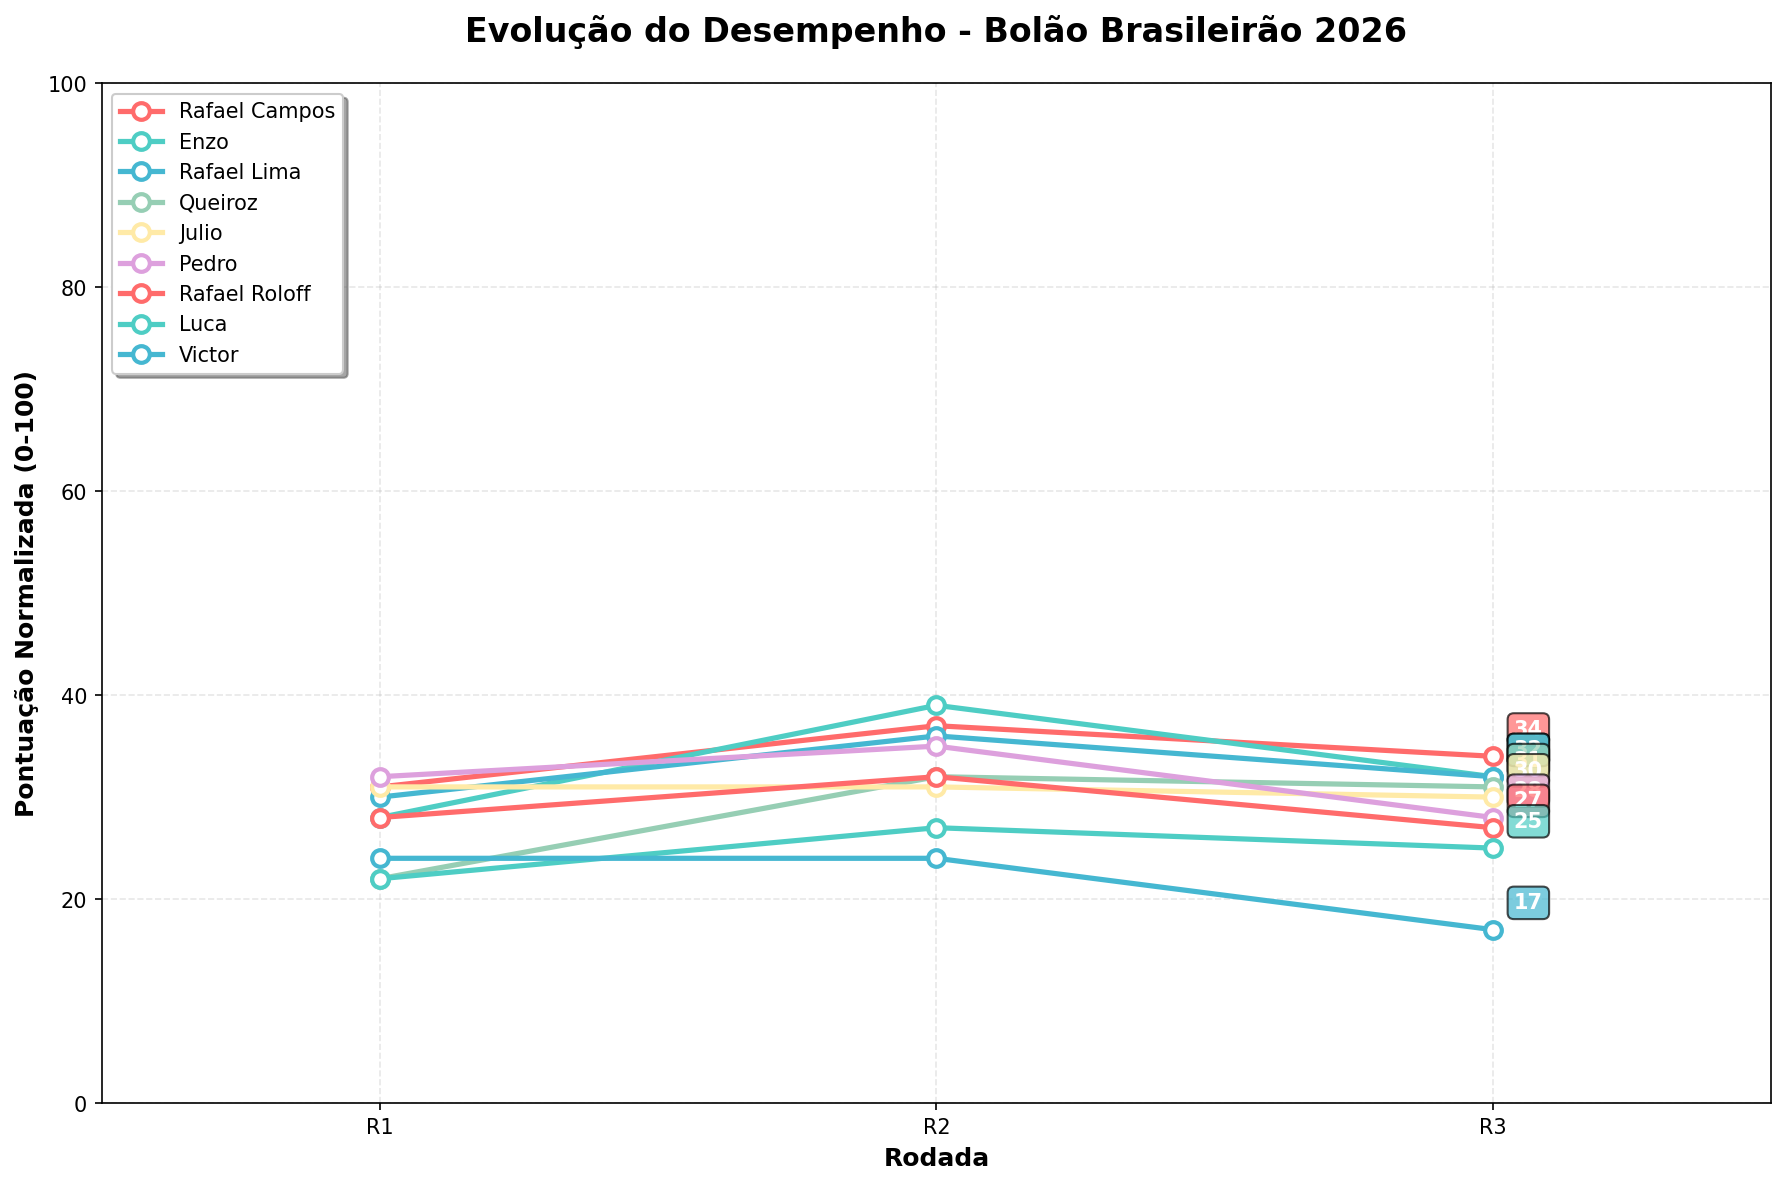
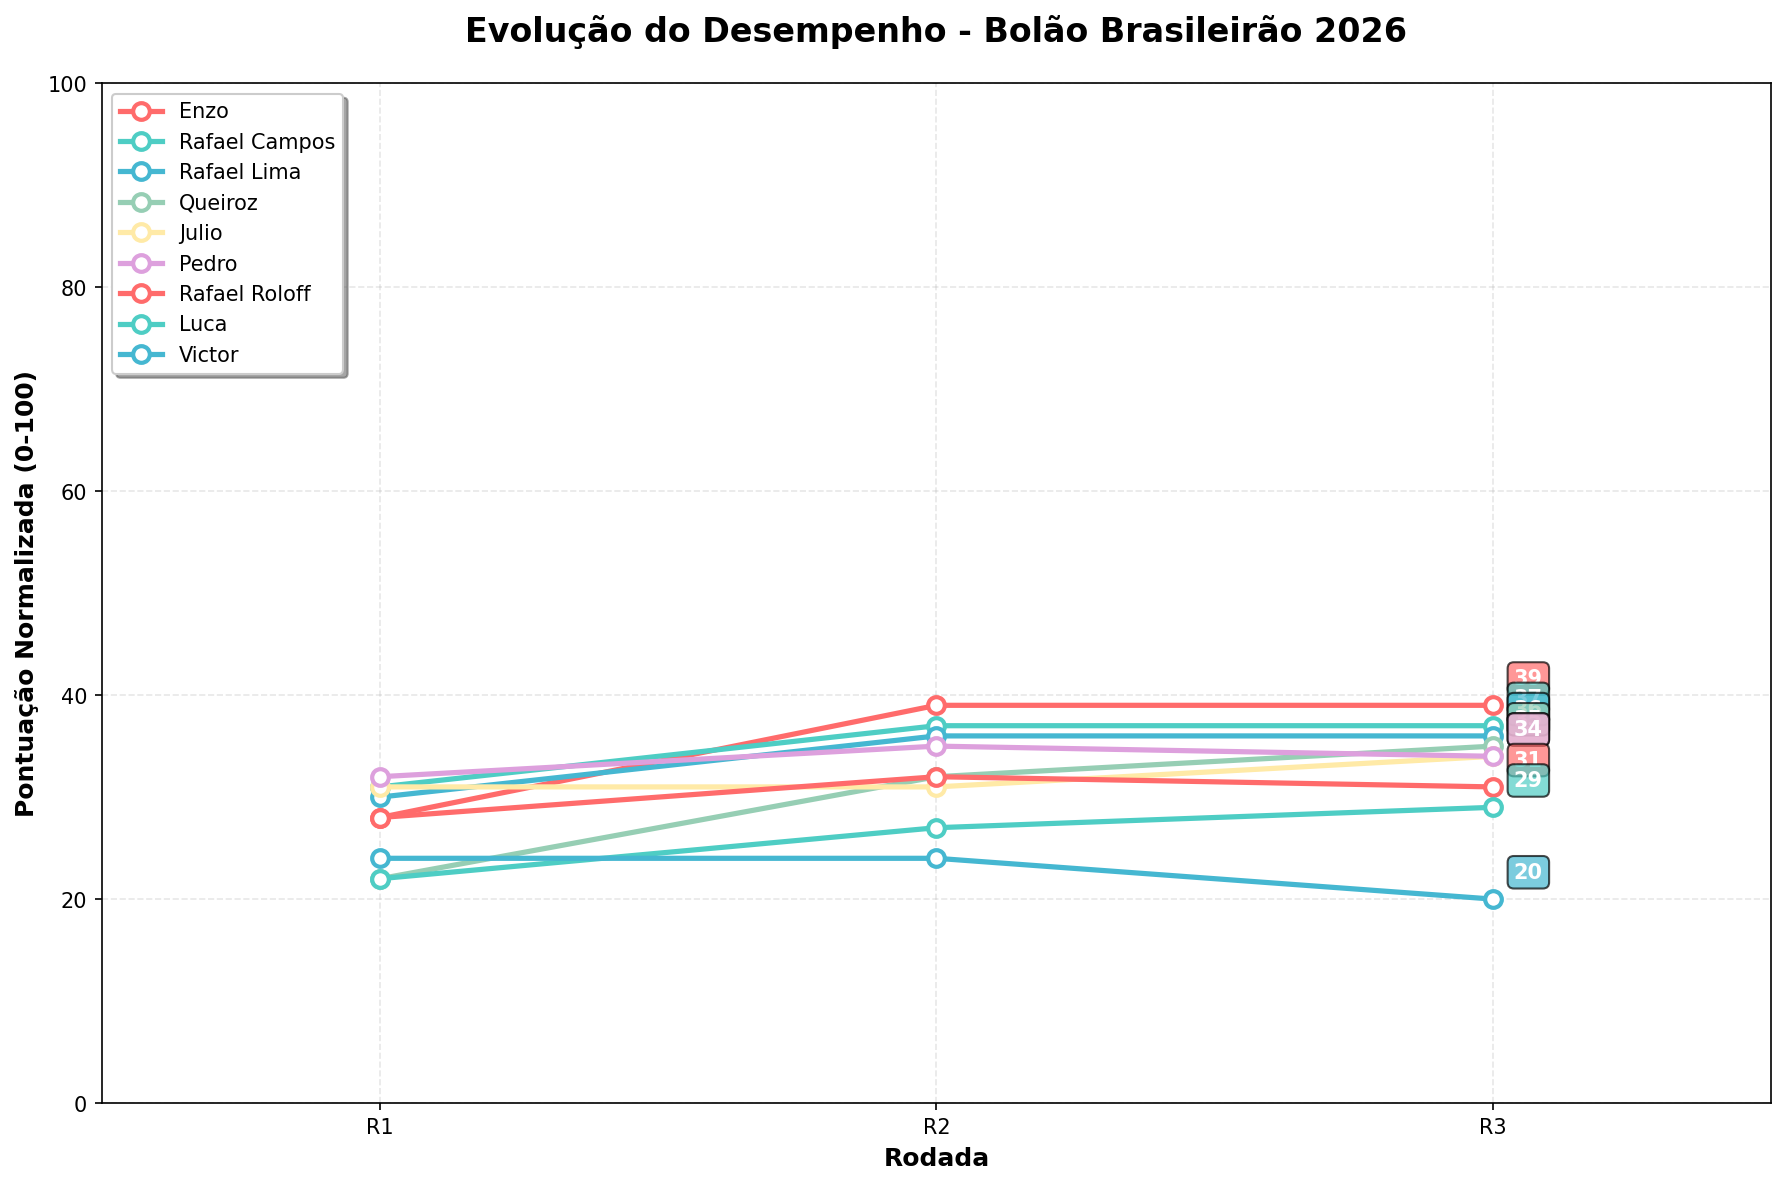
Atualizacao automatica - 13/02/2026 11:08:53,45

Changed region(s): [[0.3387, 0.562, 0.8931, 0.7806], [0.2156, 0.6557, 0.308, 0.6869], [0.0924, 0.0937, 0.1848, 0.1249]]

diff --git a/README.md b/README.md
@@ -2,64 +2,64 @@
 
 ## 🏆 Resultados Atuais
 
-**Última Atualização:** 2026-02-12 13:30:55
+**Última Atualização:** 2026-02-13 11:08:52
 
-| Time | Real | Rafael Campos | Enzo | Rafael Lima | Queiroz | Julio | Pedro | Rafael Roloff | Luca | Victor |
+| Time | Real | Enzo | Rafael Campos | Rafael Lima | Queiroz | Julio | Pedro | Rafael Roloff | Luca | Victor |
 |------|------|------|------|------|------|------|------|------|------|------|
-| São Paulo | 1 | 12°(9p) | 16°(5p) | 14°(7p) | 17°(4p) | 15°(6p) | 15°(6p) | 16°(5p) | 14°(7p) | 16°(5p) |
-| Bahia | 2 | 4°(18p) | 5°(17p) | 4°(18p) | 4°(18p) | 5°(17p) | 7°(15p) | 6°(16p) | 5°(17p) | 9°(13p) |
-| Bragantino | 3 | 10°(13p) | 6°(17p) | 10°(13p) | 18°(5p) | 10°(13p) | 9°(14p) | 13°(10p) | 13°(10p) | 15°(8p) |
-| Chapecoense | 4 | 19°(5p) | 19°(5p) | 19°(5p) | 20°(4p) | 20°(4p) | 20°(4p) | 19°(5p) | 19°(5p) | 18°(6p) |
-| Mirassol | 5 | 11°(14p) | 13°(12p) | 11°(14p) | 8°(17p) | 8°(17p) | 12°(13p) | 10°(15p) | 12°(13p) | 14°(11p) |
-| Palmeiras | 6 | 3°(17p) | 2°(16p) | 3°(17p) | 3°(17p) | 2°(16p) | 3°(17p) | 2°(16p) | 3°(17p) | 3°(17p) |
-| Fluminense | 7 | 7°(20p) | 4°(17p) | 6°(19p) | 7°(20p) | 7°(20p) | 4°(17p) | 8°(19p) | 8°(19p) | 10°(17p) |
-| Coritiba | 8 | 16°(12p) | 15°(13p) | 16°(12p) | 12°(16p) | 19°(9p) | 19°(9p) | 14°(14p) | 20°(8p) | 20°(8p) |
-| Flamengo | 9 | 1°(12p) | 1°(12p) | 1°(12p) | 1°(12p) | 1°(12p) | 2°(13p) | 1°(12p) | 1°(12p) | 1°(12p) |
-| Botafogo | 10 | 9°(19p) | 10°(20p) | 8°(18p) | 11°(19p) | 6°(16p) | 5°(15p) | 7°(17p) | 11°(19p) | 5°(15p) |
-| Atlético-PR | 11 | 17°(14p) | 17°(14p) | 17°(14p) | 15°(16p) | 17°(14p) | 18°(13p) | 17°(14p) | 17°(14p) | 13°(18p) |
-| Grêmio | 12 | 6°(14p) | 7°(15p) | 7°(15p) | 5°(13p) | 18°(14p) | 6°(14p) | 12°(20p) | 6°(14p) | 4°(12p) |
-| Vitória | 13 | 18°(15p) | 18°(15p) | 18°(15p) | 19°(14p) | 16°(17p) | 17°(16p) | 18°(15p) | 18°(15p) | 17°(16p) |
-| Atlético-MG | 14 | 5°(11p) | 12°(18p) | 5°(11p) | 9°(15p) | 4°(10p) | 13°(19p) | 4°(10p) | 4°(10p) | 2°(8p) |
-| Remo | 15 | 20°(15p) | 20°(15p) | 20°(15p) | 16°(19p) | 13°(18p) | 16°(19p) | 20°(15p) | 16°(19p) | 19°(16p) |
-| Internacional | 16 | 15°(19p) | 14°(18p) | 13°(17p) | 14°(18p) | 14°(18p) | 14°(18p) | 15°(19p) | 15°(19p) | 6°(10p) |
-| Santos | 17 | 13°(16p) | 11°(14p) | 12°(15p) | 13°(16p) | 12°(15p) | 11°(14p) | 9°(12p) | 7°(10p) | 11°(14p) |
-| Vasco | 18 | 14°(16p) | 9°(11p) | 15°(17p) | 10°(12p) | 11°(13p) | 10°(12p) | 11°(13p) | 9°(11p) | 12°(14p) |
-| Cruzeiro | 19 | 2°(3p) | 3°(4p) | 2°(3p) | 2°(3p) | 3°(4p) | 1°(2p) | 3°(4p) | 2°(3p) | 7°(8p) |
-| Corinthians | 20 | 8°(8p) | 8°(8p) | 9°(9p) | 6°(6p) | 9°(9p) | 8°(8p) | 5°(5p) | 10°(10p) | 8°(8p) |
-| **TOTAL** | | **270** | **266** | **266** | **264** | **262** | **258** | **256** | **252** | **236** |
+| Palmeiras | 1 | 2°(19p) | 3°(18p) | 3°(18p) | 3°(18p) | 2°(19p) | 3°(18p) | 2°(19p) | 3°(18p) | 3°(18p) |
+| São Paulo | 2 | 16°(6p) | 12°(10p) | 14°(8p) | 17°(5p) | 15°(7p) | 15°(7p) | 16°(6p) | 14°(8p) | 16°(6p) |
+| Fluminense | 3 | 4°(19p) | 7°(16p) | 6°(17p) | 7°(16p) | 7°(16p) | 4°(19p) | 8°(15p) | 8°(15p) | 10°(13p) |
+| Bahia | 4 | 5°(19p) | 4°(20p) | 4°(20p) | 4°(20p) | 5°(19p) | 7°(17p) | 6°(18p) | 5°(19p) | 9°(15p) |
+| Atlético-PR | 5 | 17°(8p) | 17°(8p) | 17°(8p) | 15°(10p) | 17°(8p) | 18°(7p) | 17°(8p) | 17°(8p) | 13°(12p) |
+| Bragantino | 6 | 6°(20p) | 10°(16p) | 10°(16p) | 18°(8p) | 10°(16p) | 9°(17p) | 13°(13p) | 13°(13p) | 15°(11p) |
+| Chapecoense | 7 | 19°(8p) | 19°(8p) | 19°(8p) | 20°(7p) | 20°(7p) | 20°(7p) | 19°(8p) | 19°(8p) | 18°(9p) |
+| Mirassol | 8 | 13°(15p) | 11°(17p) | 11°(17p) | 8°(20p) | 8°(20p) | 12°(16p) | 10°(18p) | 12°(16p) | 14°(14p) |
+| Coritiba | 9 | 15°(14p) | 16°(13p) | 16°(13p) | 12°(17p) | 19°(10p) | 19°(10p) | 14°(15p) | 20°(9p) | 20°(9p) |
+| Flamengo | 10 | 1°(11p) | 1°(11p) | 1°(11p) | 1°(11p) | 1°(11p) | 2°(12p) | 1°(11p) | 1°(11p) | 1°(11p) |
+| Botafogo | 11 | 10°(19p) | 9°(18p) | 8°(17p) | 11°(20p) | 6°(15p) | 5°(14p) | 7°(16p) | 11°(20p) | 5°(14p) |
+| Corinthians | 12 | 8°(16p) | 8°(16p) | 9°(17p) | 6°(14p) | 9°(17p) | 8°(16p) | 5°(13p) | 10°(18p) | 8°(16p) |
+| Grêmio | 13 | 7°(14p) | 6°(13p) | 7°(14p) | 5°(12p) | 18°(15p) | 6°(13p) | 12°(19p) | 6°(13p) | 4°(11p) |
+| Vitória | 14 | 18°(16p) | 18°(16p) | 18°(16p) | 19°(15p) | 16°(18p) | 17°(17p) | 18°(16p) | 18°(16p) | 17°(17p) |
+| Atlético-MG | 15 | 12°(17p) | 5°(10p) | 5°(10p) | 9°(14p) | 4°(9p) | 13°(18p) | 4°(9p) | 4°(9p) | 2°(7p) |
+| Remo | 16 | 20°(16p) | 20°(16p) | 20°(16p) | 16°(20p) | 13°(17p) | 16°(20p) | 20°(16p) | 16°(20p) | 19°(17p) |
+| Vasco | 17 | 9°(12p) | 14°(17p) | 15°(18p) | 10°(13p) | 11°(14p) | 10°(13p) | 11°(14p) | 9°(12p) | 12°(15p) |
+| Santos | 18 | 11°(13p) | 13°(15p) | 12°(14p) | 13°(15p) | 12°(14p) | 11°(13p) | 9°(11p) | 7°(9p) | 11°(13p) |
+| Internacional | 19 | 14°(15p) | 15°(16p) | 13°(14p) | 14°(15p) | 14°(15p) | 14°(15p) | 15°(16p) | 15°(16p) | 6°(7p) |
+| Cruzeiro | 20 | 3°(3p) | 2°(2p) | 2°(2p) | 2°(2p) | 3°(3p) | 1°(1p) | 3°(3p) | 2°(2p) | 7°(7p) |
+| **TOTAL** | | **280** | **276** | **274** | **272** | **270** | **270** | **264** | **260** | **242** |
 
 ### 🏅 Classificação Atual (pontuação normalizada 0-100)
 
-🥇 **Rafael Campos**: 34 pontos<br>
-🥈 **Enzo**: 32 pontos<br>
-🥉 **Rafael Lima**: 32 pontos<br>
-4. **Queiroz**: 31 pontos<br>
-5. **Julio**: 30 pontos<br>
-6. **Pedro**: 28 pontos<br>
-7. **Rafael Roloff**: 27 pontos<br>
-8. **Luca**: 25 pontos<br>
-9. **Victor**: 17 pontos<br>
+🥇 **Enzo**: 39 pontos<br>
+🥈 **Rafael Campos**: 37 pontos<br>
+🥉 **Rafael Lima**: 36 pontos<br>
+4. **Queiroz**: 35 pontos<br>
+5. **Julio**: 34 pontos<br>
+6. **Pedro**: 34 pontos<br>
+7. **Rafael Roloff**: 31 pontos<br>
+8. **Luca**: 29 pontos<br>
+9. **Victor**: 20 pontos<br>
 
 ### 📈 Histórico de Desempenho
 
 ![Gráfico de Performance](performance_chart.png)
 
-| Rodada | Rafael Campos | Enzo | Rafael Lima | Queiroz | Julio | Pedro | Rafael Roloff | Luca | Victor |
+| Rodada | Enzo | Rafael Campos | Rafael Lima | Queiroz | Julio | Pedro | Rafael Roloff | Luca | Victor |
 |-------|-------|-------|-------|-------|-------|-------|-------|-------|-------|
-| R1 | 31 | 28 | 30 | 22 | 31 | 32 | 28 | 22 | 24 |
-| R2 | 37 | 39 | 36 | 32 | 31 | 35 | 32 | 27 | 24 |
-| R3 | 34 | 32 | 32 | 31 | 30 | 28 | 27 | 25 | 17 |
+| R1 | 28 | 31 | 30 | 22 | 31 | 32 | 28 | 22 | 24 |
+| R2 | 39 | 37 | 36 | 32 | 31 | 35 | 32 | 27 | 24 |
+| R3 | 39 | 37 | 36 | 35 | 34 | 34 | 31 | 29 | 20 |
 
 **Tendência (últimas 2 medições):**
-- **Rafael Campos**: 📉 -3
-- **Enzo**: 📉 -7
-- **Rafael Lima**: 📉 -4
-- **Queiroz**: 📉 -1
-- **Julio**: 📉 -1
-- **Pedro**: 📉 -7
-- **Rafael Roloff**: 📉 -5
-- **Luca**: 📉 -2
-- **Victor**: 📉 -7
+- **Enzo**: ➡ =0
+- **Rafael Campos**: ➡ =0
+- **Rafael Lima**: ➡ =0
+- **Queiroz**: 📈 +3
+- **Julio**: 📈 +3
+- **Pedro**: 📉 -1
+- **Rafael Roloff**: 📉 -1
+- **Luca**: 📈 +2
+- **Victor**: 📉 -4
 
 ## 🎯 Sistema de Pontuação
 
